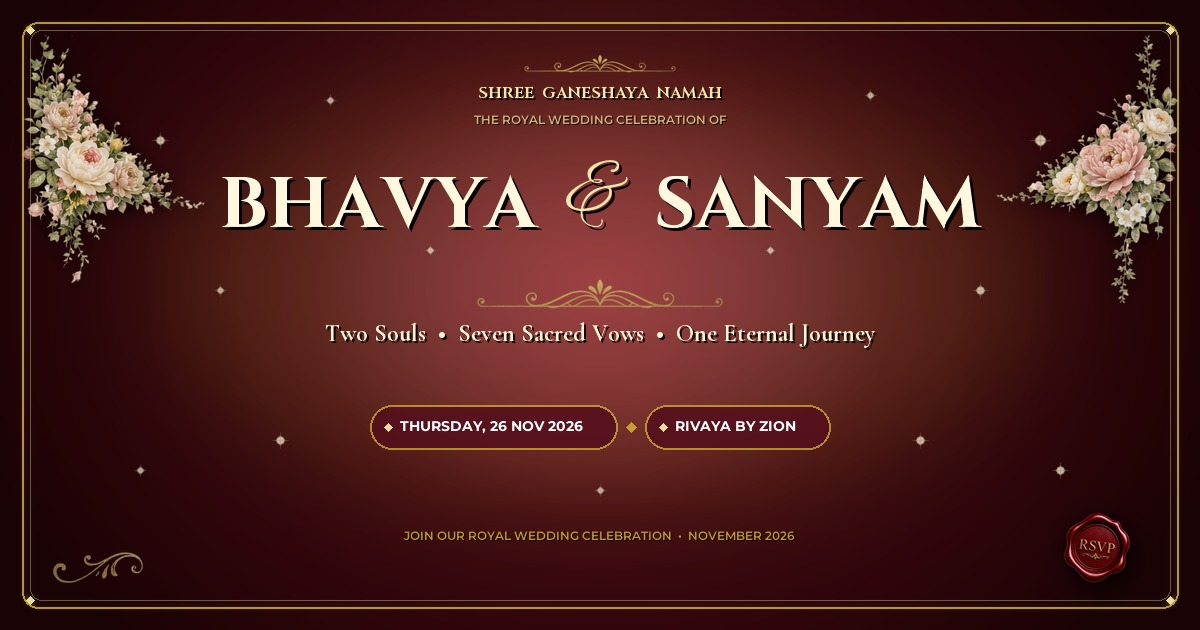
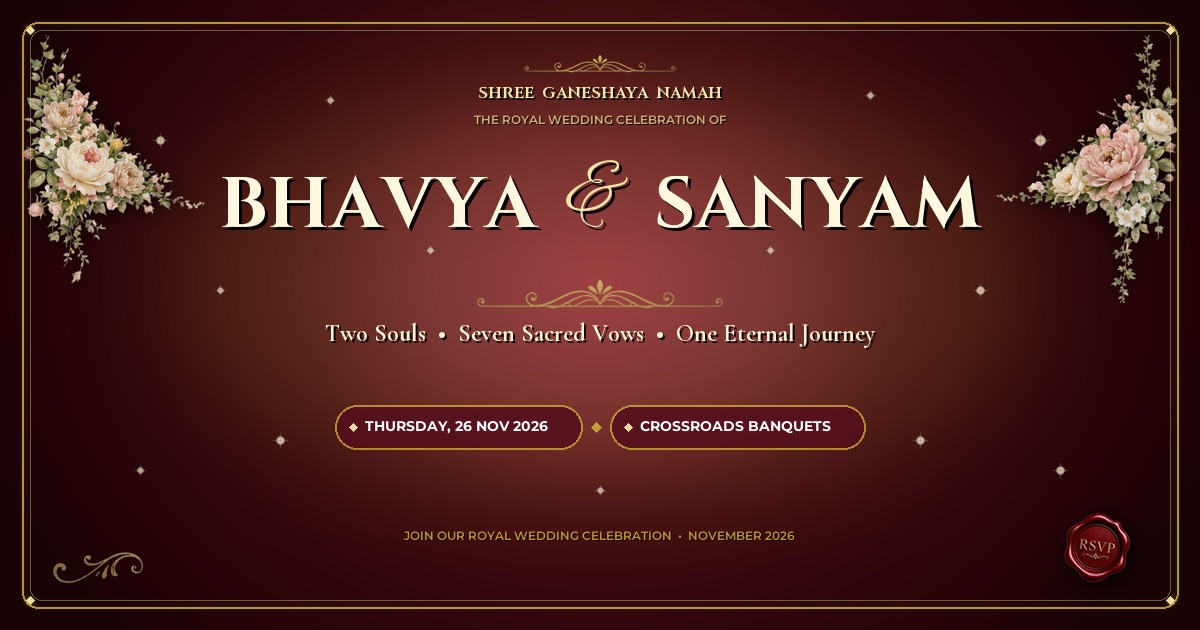
update venue map to Crossroads Banquets via share.google location
- resolve share.google/cXYoefN7goMe2oGer to Crossroads Banquets Conventions and update map iframe q=Crossroads+Banquets+Conventions
- revert venue name from Rivaya by Zion to Crossroads Banquets across index.html, og_preview.html, and generate_og_image.py
- update meta descriptions, OG tags, scratch card, venue section, and calendar link
- regenerate OG images (og-image.png/jpg, og-graph.jpg) with corrected venue badge
- fix venue section comment in custom.css

Changed region(s): [[0.2775, 0.6333, 0.7092, 0.7238]]

diff --git a/index.html b/index.html
@@ -9,7 +9,7 @@
   
   <!-- Primary Meta Tags -->
   <meta name="title" content="Bhavya &amp; Sanyam | Wedding Celebration" />
-  <meta name="description" content="Together with their families, Bhavya &amp; Sanyam joyfully invite you to celebrate their auspicious wedding union on 26th November 2026 at Rivaya by Zion." />
+  <meta name="description" content="Together with their families, Bhavya &amp; Sanyam joyfully invite you to celebrate their auspicious wedding union on 26th November 2026 at Crossroads Banquets." />
   <link rel="canonical" href="https://share.google/cXYoefN7goMe2oGer" />
 
   <!-- Open Graph / WhatsApp / Facebook / iMessage -->
@@ -17,7 +17,7 @@
   <meta property="og:site_name" content="Bhavya &amp; Sanyam Wedding" />
   <meta property="og:url" content="https://share.google/cXYoefN7goMe2oGer" />
   <meta property="og:title" content="Bhavya &amp; Sanyam | Wedding Celebration" />
-  <meta property="og:description" content="Two souls, one eternal journey — join Bhavya &amp; Sanyam for their wedding celebrations on 26th November 2026 at Rivaya by Zion." />
+  <meta property="og:description" content="Two souls, one eternal journey — join Bhavya &amp; Sanyam for their wedding celebrations on 26th November 2026 at Crossroads Banquets." />
   <meta property="og:image" content="images/og-image.jpg" />
   <meta property="og:image:secure_url" content="images/og-image.jpg" />
   <meta property="og:image:type" content="image/jpeg" />
@@ -29,7 +29,7 @@
   <!-- Twitter Card Tags -->
   <meta name="twitter:card" content="summary_large_image" />
   <meta name="twitter:title" content="Bhavya &amp; Sanyam | Wedding Celebration" />
-  <meta name="twitter:description" content="Two souls, one eternal journey — join Bhavya &amp; Sanyam for their wedding celebrations on 26th November 2026 at Rivaya by Zion." />
+  <meta name="twitter:description" content="Two souls, one eternal journey — join Bhavya &amp; Sanyam for their wedding celebrations on 26th November 2026 at Crossroads Banquets." />
   <meta name="twitter:image" content="images/og-image.jpg" />
   <meta name="twitter:image:alt" content="Bhavya &amp; Sanyam Wedding — 26th November 2026" />
 
@@ -168,12 +168,12 @@
         </div>
       </div>
 
-      <!-- Interactive Scratch-to-Reveal Card (Updated Venue: Rivaya by Zion) -->
+      <!-- Interactive Scratch-to-Reveal Card (Updated Venue: Crossroads Banquets) -->
       <div class="scratch-date-wrap" id="scratch-date-container">
         <div class="scratch-card-body">
           <div class="scratch-revealed-content">
             <span class="revealed-day">Thursday, 26 Nov 2026</span>
-            <span class="revealed-sub">Rivaya by Zion</span>
+            <span class="revealed-sub">Crossroads Banquets</span>
           </div>
           <canvas id="scratch-canvas"></canvas>
         </div>
@@ -313,15 +313,15 @@
       </div>
     </section>
 
-    <!-- SECTION 5: THE WEDDING VENUE (Rivaya by Zion) -->
+    <!-- SECTION 5: THE WEDDING VENUE (Crossroads Banquets) -->
     <section class="romantic-section venue-section" id="venue">
       <h2 class="section-title">The Wedding Venue</h2>
       <img class="section-heading-flourish" src="images/cdn/noroot_6.png" alt="Flourish Divider" />
-      <div class="section-subtitle">Rivaya by Zion</div>
+      <div class="section-subtitle">Crossroads Banquets</div>
 
       <img class="venue-artwork" src="images/cdn/ChatGPT_Image_May_25.png" alt="Wedding Mandap Arch" />
 
-      <div class="venue-name">Rivaya by Zion</div>
+      <div class="venue-name">Crossroads Banquets</div>
       <div class="venue-address">
         <i class="fa-solid fa-location-dot"></i> Grand Wedding Celebrations • Delhi-NCR
       </div>
@@ -336,8 +336,8 @@
         </div>
         <div class="venue-map-iframe-container">
           <iframe 
-            title="Google Map preview for Rivaya by Zion"
-            src="https://maps.google.com/maps?q=Rivaya+by+Zion&t=&z=14&ie=UTF8&iwloc=&output=embed"
+            title="Google Map preview for Crossroads Banquets"
+            src="https://maps.google.com/maps?q=Crossroads+Banquets+Conventions&t=&z=14&ie=UTF8&iwloc=&output=embed"
             loading="lazy" 
             allowfullscreen="" 
             referrerpolicy="no-referrer-when-downgrade">
@@ -351,7 +351,7 @@
           Get Directions
         </a>
 
-        <a href="https://calendar.google.com/calendar/render?action=TEMPLATE&text=Bhavya%20%26%20Sanyam%20Wedding&dates=20261126T110000/20261126T190000&details=Join%20us%20for%20the%20wedding%20celebrations%20of%20Bhavya%20%26%20Sanyam%20at%20Rivaya%20by%20Zion.&location=Rivaya%20by%20Zion" target="_blank" rel="noopener noreferrer" class="romantic-btn btn-grey">
+        <a href="https://calendar.google.com/calendar/render?action=TEMPLATE&text=Bhavya%20%26%20Sanyam%20Wedding&dates=20261126T110000/20261126T190000&details=Join%20us%20for%20the%20wedding%20celebrations%20of%20Bhavya%20%26%20Sanyam%20at%20Crossroads%20Banquets.&location=Crossroads%20Banquets" target="_blank" rel="noopener noreferrer" class="romantic-btn btn-grey">
           <i class="fa-regular fa-calendar-plus"></i>
           Add to Calendar
         </a>

diff --git a/og_preview.html b/og_preview.html
@@ -337,7 +337,7 @@
         <span class="badge-separator">❖</span>
         <div class="badge">
           <span class="badge-icon">✦</span>
-          <span class="badge-text"><span class="badge-highlight">Rivaya by Zion</span></span>
+          <span class="badge-text"><span class="badge-highlight">Crossroads Banquets</span></span>
         </div>
       </div>
     </div>

diff --git a/css/custom.css b/css/custom.css
@@ -1146,7 +1146,7 @@ body.video-active #weiAudioBtn {
 
 
 /* ==========================================================================
-   6. VENUE SECTION (Rivaya by Zion)
+   6. VENUE SECTION (Crossroads Banquets)
    ========================================================================== */
 .venue-section {
   background: var(--theme-bg-alt);

diff --git a/generate_og_image.py b/generate_og_image.py
@@ -241,7 +241,7 @@ def create_og_banner():
     
     # 11. Details Badges
     b1_txt = "THURSDAY, 26 NOV 2026"
-    b2_txt = "RIVAYA BY ZION"
+    b2_txt = "CROSSROADS BANQUETS"
     
     tb1_bbox = font_badge.getbbox(b1_txt)
     tb1_w = tb1_bbox[2] - tb1_bbox[0]
